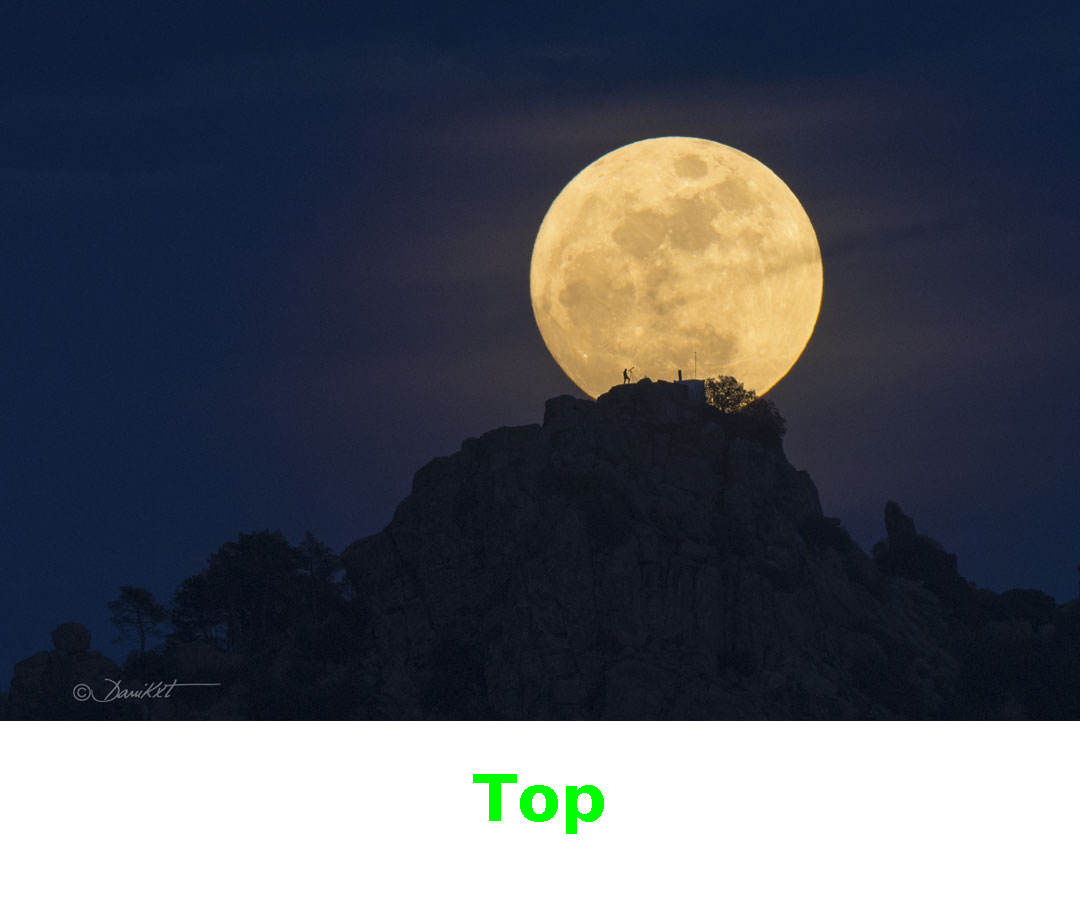
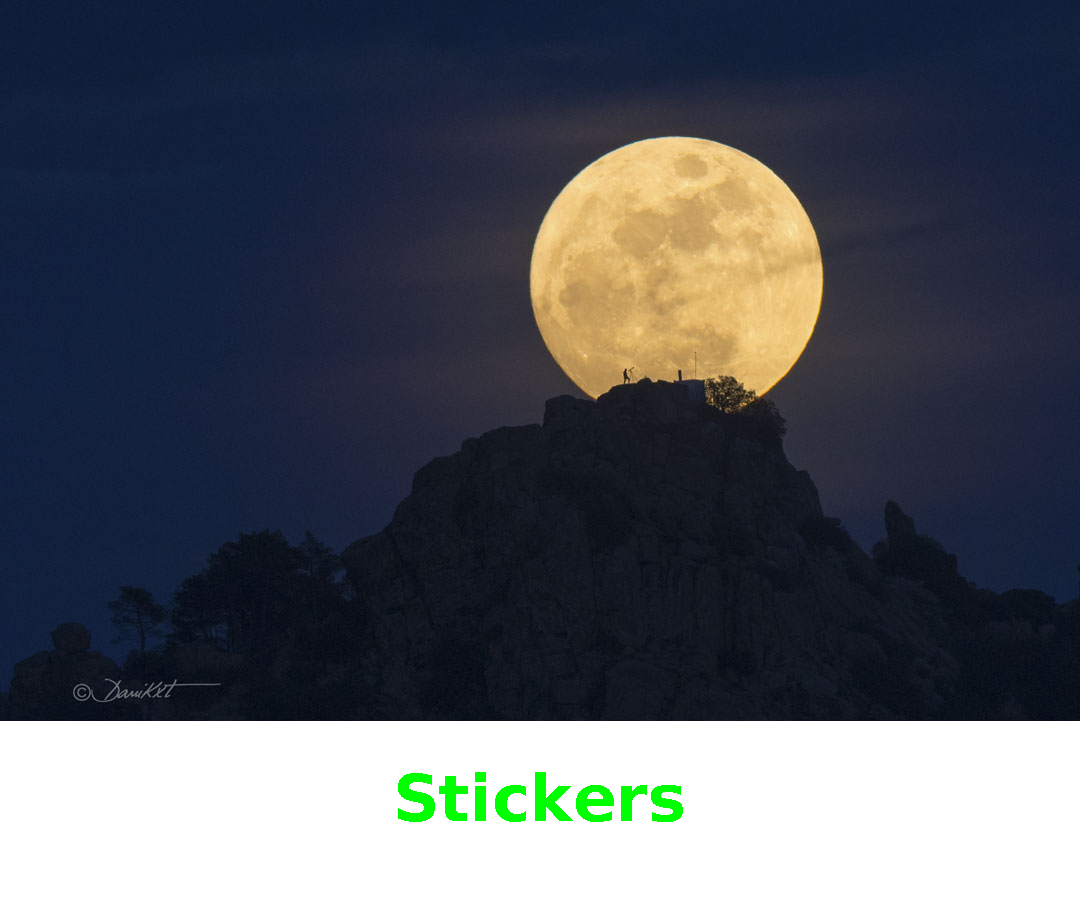
Aula 3

Changed region(s): [[0.3667, 0.8208, 0.6417, 0.9121]]

diff --git a/src/components/stickers/App.java b/src/components/stickers/App.java
@@ -2,15 +2,12 @@ package components.stickers;
 
 import java.io.File;
 import java.io.InputStream;
-import java.net.URI;
 import java.net.URL;
-import java.net.http.HttpClient;
-import java.net.http.HttpRequest;
-import java.net.http.HttpResponse;
-import java.net.http.HttpResponse.BodyHandlers;
+
 import java.util.List;
 import java.util.Map;
 
+import components.ClienteHttp;
 import components.JsonParser;
 
 public class App {
@@ -20,21 +17,19 @@ public class App {
     // fazer uma conexão HTTP e buscar os top 250 filmes
     //String url = "https://imdb-api.com/en/API/Top250Movies/k_0ojt0yvm";
     String url = "https://raw.githubusercontent.com/alura-cursos/imersao-java-2-api/main/TopMovies.json";
-    URI endereco = URI.create(url);
-    var client = HttpClient.newHttpClient();
-    var request = HttpRequest.newBuilder(endereco).GET().build();
-    HttpResponse<String> response = client.send(request, BodyHandlers.ofString());
-    String body = response.body();
+    
+    var http = new ClienteHttp();
+    String json = http.buscaDados(url);
 
     // extrair só os dados que interessam (titulo, poster, classificação)
     var parser = new JsonParser();
-    List<Map<String, String>> listaDeFilmes = parser.parse(body);
+    List<Map<String, String>> listaDeFilmes = parser.parse(json);
 
     // cria pasta 
-    var diretorio = new File("ALURA-STICKERS/figurinhas/");
+    var diretorio = new File("ALURA-STICKERS/figurinhas/filmes");
       diretorio.mkdir();
 
-    // exibir e manipular os dados 
+    // exibir e manipular os dados
     var geradora = new GeradorDeFigurinhas();
     for (Map<String,String> filme : listaDeFilmes) {
 
@@ -42,7 +37,7 @@ public class App {
         String titulo = filme.get("title");
 
         InputStream inputStream = new URL(urlImagem).openStream();
-        String nomeArquivo = "ALURA-STICKERS/figurinhas/" + titulo + ".png";
+        String nomeArquivo = "ALURA-STICKERS/figurinhas/filmes/" + titulo + ".png";
 
         geradora.cria(inputStream, nomeArquivo);
 

diff --git a/src/components/apiNasa/App.java b/src/components/apiNasa/App.java
@@ -1,0 +1,44 @@
+package components.apiNasa;
+
+import java.io.File;
+import java.io.InputStream;
+import java.net.URL;
+import java.util.List;
+
+import components.ClienteHttp;
+import components.Conteudo;
+import components.stickers.GeradorDeFigurinhas;
+
+public class App {
+  
+    public static void main(String[] args) throws Exception {
+
+      // fazer uma conexão HTTP
+      String url = "https://raw.githubusercontent.com/alura-cursos/imersao-java-2-api/main/NASA-APOD.json";
+      
+      var http = new ClienteHttp();
+      String json = http.buscaDados(url);
+
+      // cria pasta 
+      var diretorio = new File("ALURA-STICKERS/figurinhas/Nasa");
+          diretorio.mkdir();
+
+      // exibir e manipular os dados 
+      ExtratorDeConteudoDaNasa extrator = new ExtratorDeConteudoDaNasa();
+      List<Conteudo> conteudos = extrator.extraiConteudos(json);
+
+      var geradora = new GeradorDeFigurinhas();
+      for (int i = 0; i < 3; i++) {
+
+          Conteudo conteudo = conteudos.get(i);
+
+          InputStream inputStream = new URL(conteudo.geturlImagem()).openStream();
+          String nomeArquivo = "ALURA-STICKERS/figurinhas/Nasa/" + conteudo.getTitulo() + ".png";
+
+          geradora.cria(inputStream, nomeArquivo);
+
+          System.out.println(conteudo.getTitulo());
+          System.out.println();
+      }
+    }
+}

diff --git a/src/components/apiFilmes/ExtratorDeConteudoDoIMDB.java b/src/components/apiFilmes/ExtratorDeConteudoDoIMDB.java
@@ -1,0 +1,33 @@
+import java.util.ArrayList;
+import java.util.List;
+import java.util.Map;
+
+import components.Conteudo;
+import components.ExtratorDeConteudo;
+import components.JsonParser;
+
+public class ExtratorDeConteudoDoIMDB implements ExtratorDeConteudo{
+
+  public List<Conteudo> extraiConteudos( String json) {
+
+    // extrair só os dados que interessam (titulo, poster, classificação)
+    var parser = new JsonParser();
+    List<Map<String, String>> listaDeAtributos = parser.parse(json);
+
+    List<Conteudo> conteudos = new ArrayList<>();
+
+    // popular a lista de conteudos
+    for (Map<String, String> atributos : listaDeAtributos ) {
+        String titulo = atributos.get("title");
+        String urlImagem = atributos.get("image")
+               .replaceAll("(@+)(.*).jpg$", "$1.jpg");
+        
+        var conteudo = new Conteudo(titulo, urlImagem);
+
+        conteudos.add(conteudo);
+    }
+
+    return conteudos;
+  }
+
+}

diff --git a/src/components/apiNasa/ExtratorDeConteudoDaNasa.java b/src/components/apiNasa/ExtratorDeConteudoDaNasa.java
@@ -1,0 +1,34 @@
+package components.apiNasa;
+
+import java.util.ArrayList;
+import java.util.List;
+import java.util.Map;
+
+import components.Conteudo;
+import components.ExtratorDeConteudo;
+import components.JsonParser;
+
+public class ExtratorDeConteudoDaNasa implements ExtratorDeConteudo {
+
+    public List<Conteudo> extraiConteudos( String json) {
+
+        // extrair só os dados 
+        var parser = new JsonParser();
+        List<Map<String, String>> listaDeAtributos = parser.parse(json);
+
+        List<Conteudo> conteudos = new ArrayList<>();
+
+        // popular a lista de conteudos
+        for (Map<String, String> atributos : listaDeAtributos ) {
+            String titulo = atributos.get("title");
+            String urlImagem = atributos.get("url");
+
+            var conteudo = new Conteudo(titulo, urlImagem);
+
+            conteudos.add(conteudo);
+        }
+
+        return conteudos;
+    }
+  
+}

diff --git a/src/components/ClienteHttp.java b/src/components/ClienteHttp.java
@@ -1,0 +1,27 @@
+package components;
+
+import java.io.IOException;
+import java.net.URI;
+import java.net.http.HttpClient;
+import java.net.http.HttpRequest;
+import java.net.http.HttpResponse;
+import java.net.http.HttpResponse.BodyHandlers;
+
+public class ClienteHttp {
+  
+    public String buscaDados(String url){
+
+      try {
+        URI endereco = URI.create(url);
+        var client = HttpClient.newHttpClient();
+        var request = HttpRequest.newBuilder(endereco).GET().build();
+        HttpResponse<String> response = client.send(request, BodyHandlers.ofString());
+        String body = response.body();
+        return body;
+        
+      } catch (IOException | InterruptedException ex) {
+         throw new RuntimeException(ex);
+      }
+      
+    }
+}

diff --git a/src/components/stickers/GeradorDeFigurinhas.java b/src/components/stickers/GeradorDeFigurinhas.java
@@ -39,7 +39,7 @@ public class GeradorDeFigurinhas {
         graphics.setFont(fonte);
 
         // escrever uma frase na nova imagem
-        String texto = "Top";
+        String texto = "Stickers";
         FontMetrics fontMetrics = graphics.getFontMetrics();
         Rectangle2D retangulo = fontMetrics.getStringBounds(texto, graphics);
         int larguraTexto = (int)retangulo.getWidth();

diff --git a/src/components/Conteudo.java b/src/components/Conteudo.java
@@ -1,0 +1,21 @@
+package components;
+
+public class Conteudo {
+
+    private String titulo;
+    private String urlImagem;
+
+    public Conteudo(String titulo, String urlImagem) {
+      this.titulo = titulo;
+      this.urlImagem = urlImagem;
+    }
+
+    public String getTitulo() {
+      return titulo;
+    }
+
+    public String geturlImagem() {
+      return urlImagem;
+    }
+  
+}

diff --git a/src/components/JsonParser.java b/src/components/JsonParser.java
@@ -21,7 +21,6 @@ public class JsonParser {
         String[] items = matcher.group(1).split("\\},\\{");
 
         List<Map<String, String>> dados = new ArrayList<>();
-
         
         for (String item : items) {
 

diff --git a/src/components/ExtratorDeConteudo.java b/src/components/ExtratorDeConteudo.java
@@ -1,0 +1,8 @@
+package components;
+
+import java.util.List;
+
+public interface ExtratorDeConteudo {
+  
+    List<Conteudo> extraiConteudos(String json);
+}
